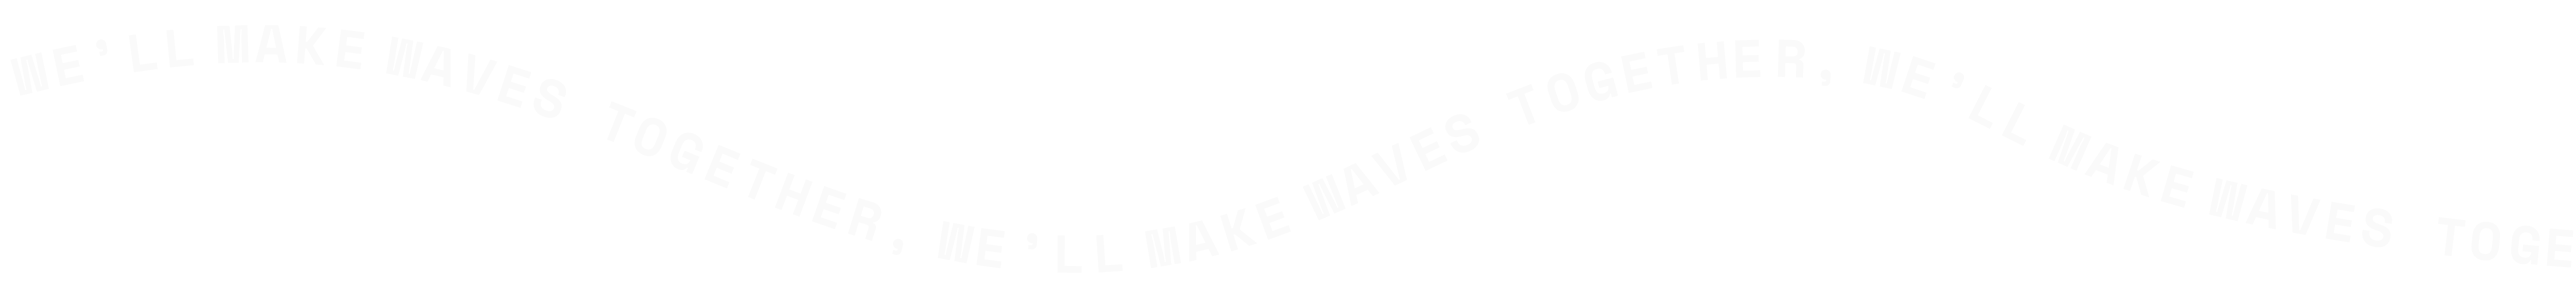
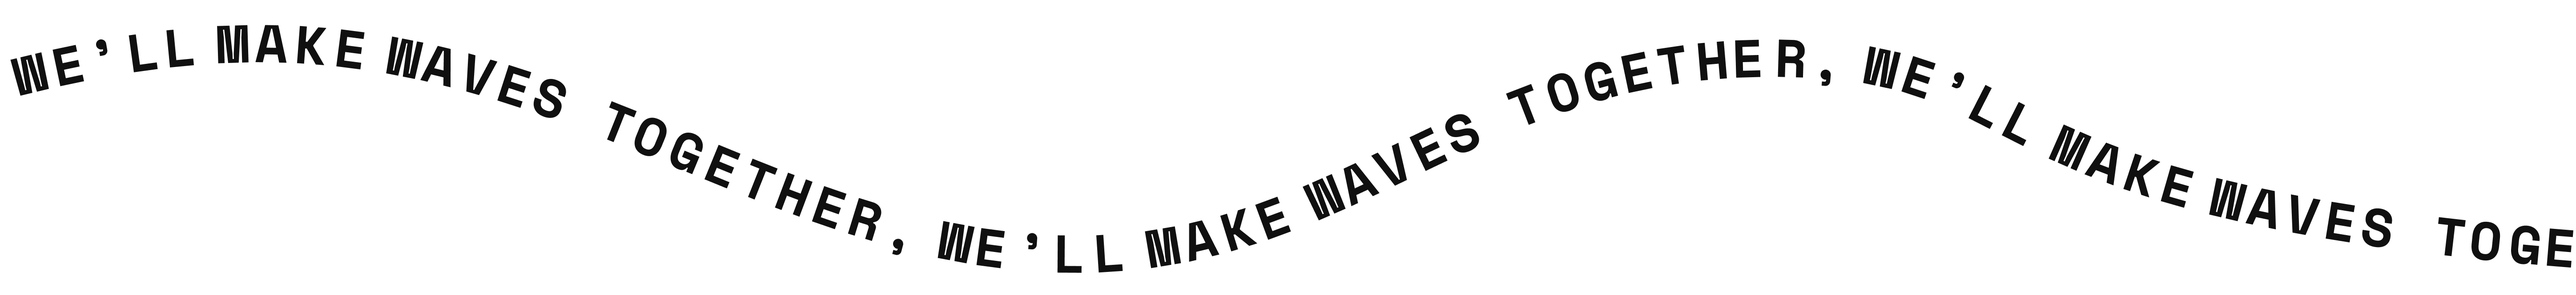
changes

Changed region(s): [[0.0, 0.0902, 0.5938, 0.9323], [0.5625, 0.1203, 1.0, 0.9023]]

diff --git a/index.html b/index.html
@@ -39,22 +39,39 @@ layout: default
     <div id="waveframe"></div>
 </div>
 
-<div class="container">
-    <ul class="list-unstyled">
-        <li><img src="..." alt="" class="img-thumbnail"></li>
-        <li><img src="..." alt="" class="img-thumbnail"></li>
-        <li><img src="..." alt="" class="img-thumbnail"></li>
-        <li><img src="..." alt="" class="img-thumbnail"></li>
-        <li><img src="..." alt="" class="img-thumbnail"></li>
-        <li><img src="..." alt="" class="img-thumbnail"></li>
-        <li><img src="..." alt="" class="img-thumbnail"></li>
-        <li><img src="..." alt="" class="img-thumbnail"></li>
-    </ul>
+<div class="container bm-250">
+    <div class="row justify-content-center">
+        <div class="col-md-2 col-sm-12 text-center mb-5">
+            <div class="placeholder" style="width: 100px; height: 100px; background: gray"></div>
+        </div>
+        <div class="col-md-2 col-sm-12 text-center mb-5">
+            <div class="placeholder" style="width: 100px; height: 100px; background: gray"></div>
+        </div>
+        <div class="col-md-2 col-sm-12 text-center mb-5">
+            <div class="placeholder" style="width: 100px; height: 100px; background: gray"></div>
+        </div>
+        <div class="col-md-2 col-sm-12 text-center mb-5">
+            <div class="placeholder" style="width: 100px; height: 100px; background: gray"></div>
+        </div>
+        <div class="col-md-2 col-sm-12 text-center mb-5">
+            <div class="placeholder" style="width: 100px; height: 100px; background: gray"></div>
+        </div>
+        <div class="col-md-2 col-sm-12 text-center mb-5">
+            <div class="placeholder" style="width: 100px; height: 100px; background: gray"></div>
+        </div>
+        <div class="col-md-2 col-sm-12 text-center mb-5">
+            <div class="placeholder" style="width: 100px; height: 100px; background: gray"></div>
+        </div>
+        <div class="col-md-2 col-sm-12 text-center mb-5">
+            <div class="placeholder" style="width: 100px; height: 100px; background: gray"></div>
+        </div>
+        
+    </div>
 </div>
 
 <div class="container bm-250">
     <div class="row justify-content-center">
-        <div class="col-lg-6 col-sm-12">
+        <div class="col-lg-8 col-sm-12">
             <h2 class="gradient-text-tb mb-5">At Raft, we think difficult is fun. We are building the sharpest digital solutions. To solve the most complex problems. With the brightest minds. And a passion for culture that will change the world.</h2>
             <p class="text-end">
                 <a href="/join" class="raft-btn">Join Team Raft</a>
@@ -65,8 +82,6 @@ layout: default
 
 
 
-<div class="wave-footer">
-    <img src="/assets/images/footer/footer-pattern-2.png" alt="We'll make waves together." class="img-fluid">
-  </div>
+{% include wave-footer.html %}
 
 {% include threejs.html %}

diff --git a/_layouts/focus-areas.html b/_layouts/focus-areas.html
@@ -1,0 +1,34 @@
+---
+layout: default
+---
+
+<div class="container-fluid waveframe-wrapper">
+    <div class="container">
+      <h1 class="about-title text-center">Our clients are change agents, early adopters, and operators who take on the toughest missions on earth.</h1>
+    </div>
+    <div id="waveframe"></div>
+</div>
+
+<div class="container bm-250">
+    <div class="row">
+        <div class="col-md-6 col-sm-12 mb-5">
+            <h2>We work with you to create and validate new approaches that are ultimately adopted as best practices across the government and industry.</h2>
+        </div>
+        <div class="col-md-6 d-none-sm"></div>
+        <div class="col-md-6 d-none-sm"></div>
+        <div class="col-md-6 col-sm-12 my-5">
+            <h2>Digital Platforms at Scale</h2>
+            <p>We build ecosystems for secure development and seamless deployment to the cloud, enterprise, or edge. We began our DevSecOps journey building vendor and cloud-agnostic CI/CD pipelines for the DoD and U.S. government's premier software factories. Today, we integrate least trust security into platform operations and architect automated solutions for airgapped environments, cross-domain ecosystems, and the contested edge.</p>
+        </div>
+        <div class="col-md-6 col-sm-12 my-5">
+            <h2>Complex App Development</h2>
+            <p>We build ecosystems for secure development and seamless deployment to the cloud, enterprise, or edge. We began our DevSecOps journey building vendor and cloud-agnostic CI/CD pipelines for the DoD and U.S. government's premier software factories. Today, we integrate least trust security into platform operations and architect automated solutions for airgapped environments, cross-domain ecosystems, and the contested edge.</p>
+            <p>We leverage open architectures, open standards, and open-source software to build future proof systems that leverage best-in-breed technologies and private sector investment to deliver greater-then-incremental performance improvements at best value. Containerized, microservice-based, and modular architectures are our jam.</p>
+        </div>
+        <div class="col-md-6 d-none-sm"></div>
+    </div>
+</div>
+
+{% include wave-footer.html %}
+
+{% include threejs.html %}

diff --git a/_includes/header.html b/_includes/header.html
@@ -7,10 +7,10 @@
         </a>
       </div>
       <div class="col text-end">
-          <a href="#" class="search-icon" onclick="toggleSearch()" id="search-button">
+          <a href="#" class="search-icon {% if page.url == '/' %}text-light{% endif %}" onclick="toggleSearch()" id="search-button">
             <i class="bi bi-search"></i>
           </a>
-          <a class="hamburger" href="#" id="hamburger">
+          <a class="hamburger {% if page.url == '/' %}text-light{% endif %}" href="#" id="hamburger">
             <i class="bi bi-list"></i>
             <i class="bi bi-x-lg"></i>
           </a>

diff --git a/_includes/dark-mode-toggle.html b/_includes/dark-mode-toggle.html
@@ -15,7 +15,9 @@
     const setRaftLogo = () => {
       const logo = document.getElementById('logo');
       const theme = document.documentElement.getAttribute('data-bs-theme');
-      if (theme === 'dark') {
+      if (document.location.pathname === '/') {
+        logo.setAttribute('src', '/assets/new-raft-logo-light.svg');
+      } else if (theme === 'dark') {
         logo.setAttribute('src', '/assets/new-raft-logo-light.svg');
       } else {
         logo.setAttribute('src', '/assets/new-raft-logo-dark.svg');

diff --git a/_sass/_homepage.scss b/_sass/_homepage.scss
@@ -7,6 +7,12 @@
     background-size: cover;
     display: flex;
     align-items: center;
+    
+    h1 {
+        color: $text-white;
+        text-shadow: 4px 4px 5px rgba(0, 0, 0, 0.5);
+        padding: 0 69px;
+    }
 }
 
 .waveframe-wrapper {
@@ -45,6 +51,4 @@
     background: $linear-gradient-top-bottom;
     -webkit-background-clip: text;
     -webkit-text-fill-color: transparent;
-    background-clip: text;
-    text-fill-color: transparent;
 }

diff --git a/_sass/_text-headers.scss b/_sass/_text-headers.scss
@@ -43,16 +43,3 @@ h5 {
     letter-spacing: 0.14em;
     text-transform: uppercase;
 }
-
-.related-content {
-    @include ubuntu-headers;
-    font-weight: 500;
-    font-size: 20px;
-}
-
-.gradient-text {
-    background: $radial-gradient;
-    background-clip: text;
-    -webkit-background-clip: text;
-    -webkit-text-fill-color: transparent;
-}

diff --git a/_includes/nav.html b/_includes/nav.html
@@ -2,7 +2,7 @@
     <div class="row">
         <div class="col-lg-7 offset-lg-1 col-md-12 offset-md-0">
             <h5>Navigation</h5>
-            <ul class="list-unstyled">
+            <ul class="list-unstyled mb-5">
                
             {% for item in site.data.navigation %}
                 <li class="{{item.className}}">

diff --git a/_sass/_mediaqueries.scss b/_sass/_mediaqueries.scss
@@ -1,0 +1,14 @@
+/* bootstrap medium breakpoints */
+@media (max-width: 992px) {
+    h1, .title {
+        font-size: 225%;
+    }
+    h2, h3, .subtitle, h4, h5 {
+        font-size: 175%;
+    }
+    .nav-arrow-4 {
+        &::before {
+            left: 0 !important;
+        }
+    }
+}

diff --git a/_layouts/about.html b/_layouts/about.html
@@ -56,8 +56,6 @@ layout: default
   </div>
 </div>
 
-<div class="wave-footer">
-  <img src="/assets/images/footer/footer-pattern-2.png" alt="We'll make waves together." class="img-fluid">
-</div>
+{% include wave-footer.html %}
 
 {% include threejs.html %}

diff --git a/_sass/_content.scss b/_sass/_content.scss
@@ -16,3 +16,10 @@ blockquote {
     font-size: 18px;
     line-height: 30px;
 }
+
+.gradient-text {
+    background: $radial-gradient;
+    background-clip: text;
+    -webkit-background-clip: text;
+    -webkit-text-fill-color: transparent;
+}

diff --git a/_sass/_blog.scss b/_sass/_blog.scss
@@ -93,3 +93,9 @@
     width: calc(100% + 108px);
     margin: 0 -54px;
 }
+
+.related-content {
+    @include ubuntu-headers;
+    font-weight: 500;
+    font-size: 20px;
+}

diff --git a/_includes/wave-footer.html b/_includes/wave-footer.html
@@ -1,0 +1,3 @@
+<div class="wave-footer">
+    <img src="/assets/images/footer/footer-pattern-2.png" alt="We'll make waves together." class="img-fluid">
+</div>
